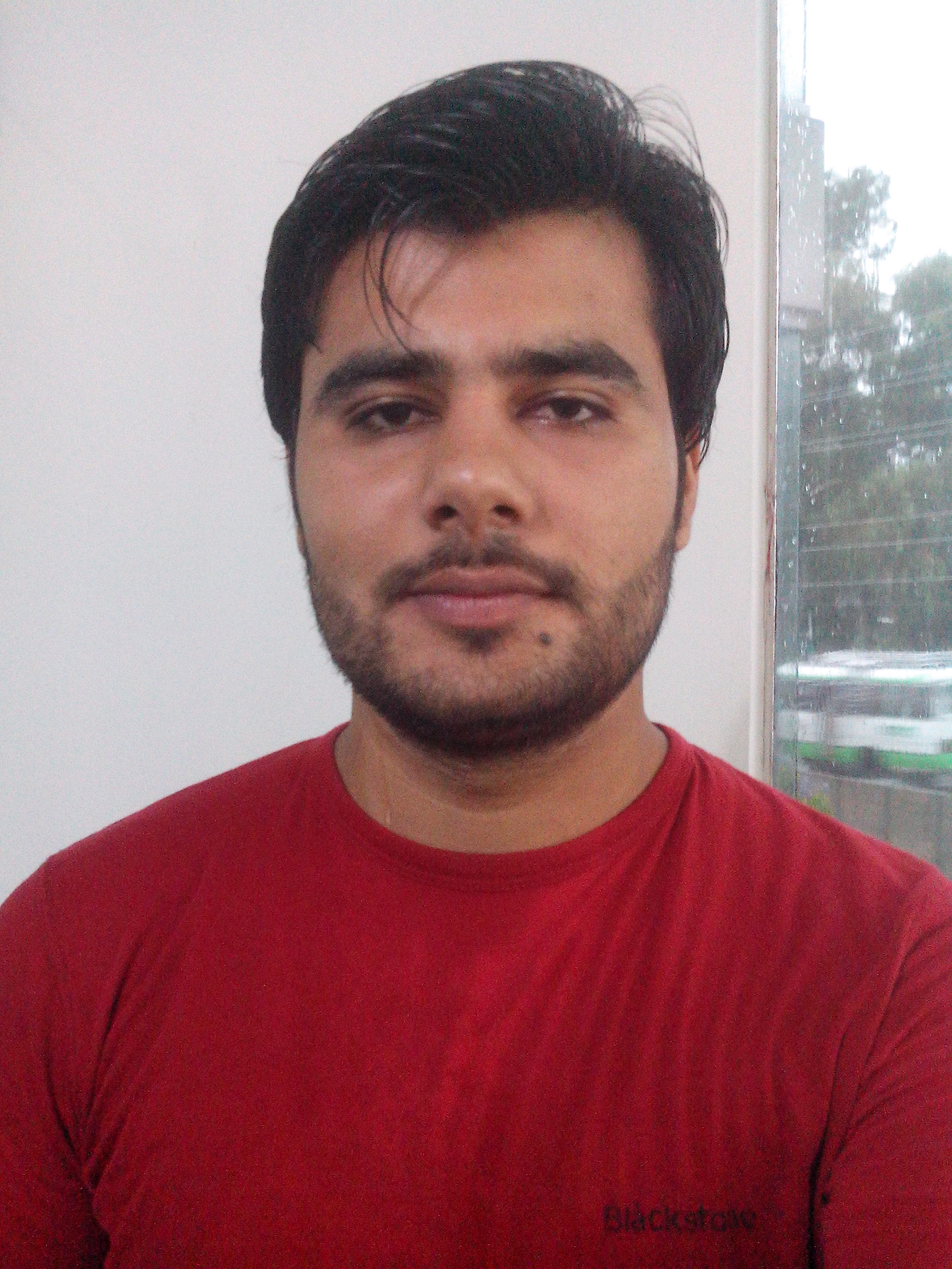
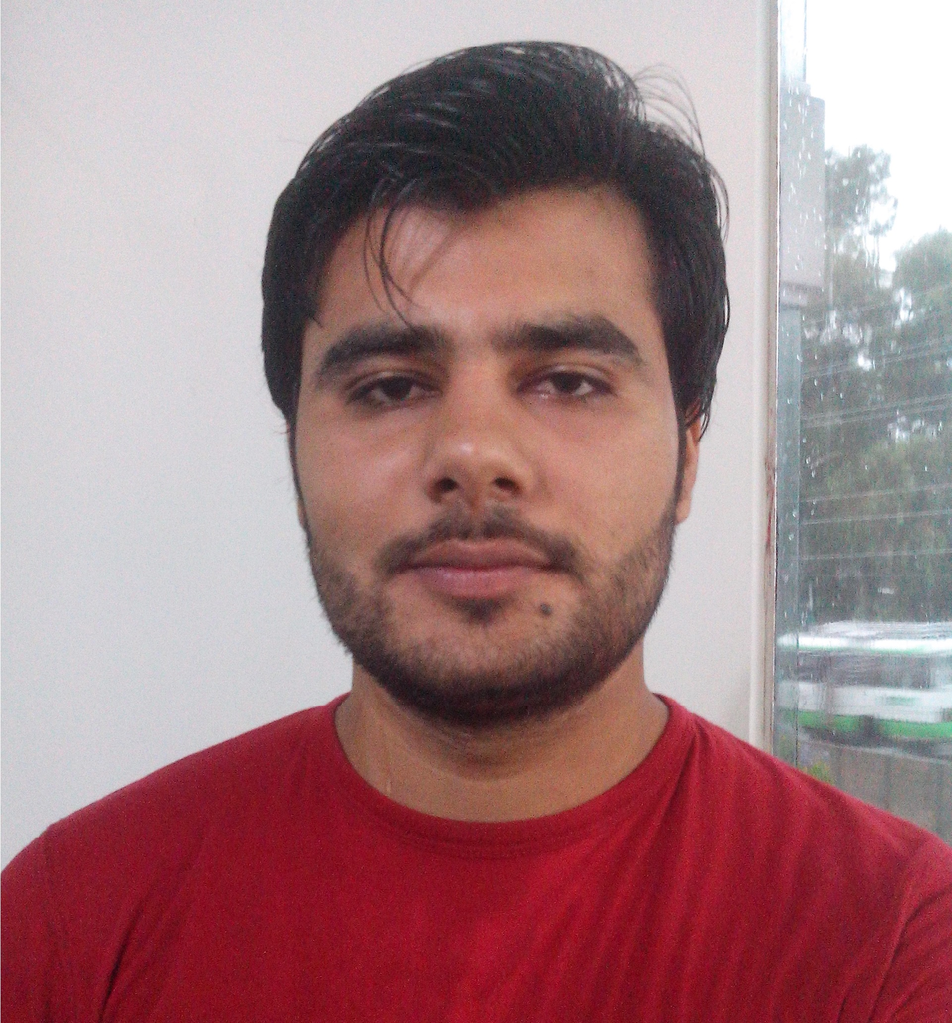
finalize the project

diff --git a/css/style.css b/css/style.css
@@ -15,7 +15,7 @@
 
 h1 {
   font-size: 40px;
-  color: #F5A623;
+  color: #3EA055;
   line-height: 48px;
   display: inline;
 }
@@ -23,7 +23,7 @@ h1 {
 h2 {
   font-weight: bold;
   font-size: 24px;
-  color: #999999;
+  color: #4AA02C;
   line-height: 29px;
   padding: 10px;
 }
@@ -87,16 +87,16 @@ a {
 }
 
 #skillsH3 {
-  color: #F5AE23;
+  color: #3EA055;
   display: none;
 }
 
 .orange {
-  background-color: #F5AE23;
+  background-color: #3EA055;
 }
 
 .orange-text {
-  color: #F5AE23;
+  color: #3EA055;
 }
 
 .white-text {
@@ -116,7 +116,7 @@ a {
 
 /* TODO: Replace with image later */
 #header {
-  background-color: #484848;
+  background-color: #484762;
 }
 
 .flex-box {

diff --git a/js/resumeBuilder.js b/js/resumeBuilder.js
@@ -9,8 +9,8 @@ var bio = {
         'location': "Lahore, Pakistan"
     },
     'welcomeMessage': 'Welcome to my resume',
-    'biopic': "images/fry.jpg",
-    'skills': ['Python', 'Scrapy', 'Javascript', 'CSS'],
+    'biopic': "images/me.jpg",
+    'skills': ['Python', 'Django', 'Scrapy', 'Javascript', 'CSS'],
     'display': function () {
         var header = $("#header");
         header.prepend(HTMLheaderRole.replace("%data%", bio.role));
